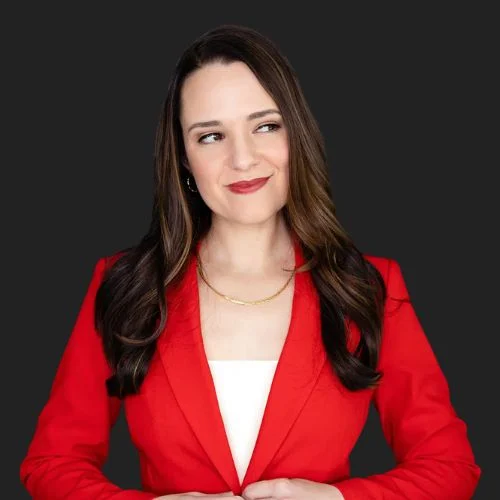
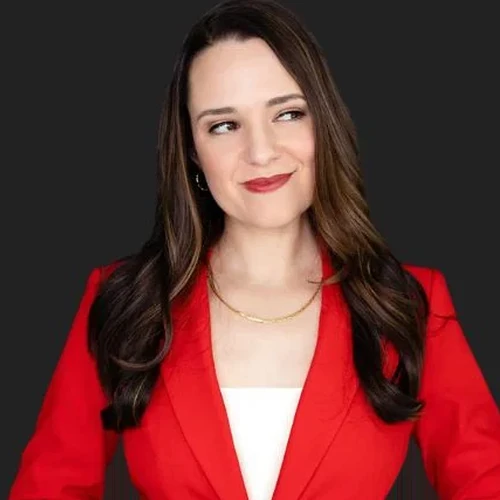
facilitators: every circle portrait matches Christina's framing
Face width and eye line were all over the place: faces ran 122 to 195 px
wide and eye lines sat anywhere from y=100 to y=173, so the circles read
as a collection rather than a set. Each portrait is now scaled and
positioned so the face measures 154 px with the eyes at (258, 121), which
is Christina's. Backgrounds were already the same #222222.

Touches the Love Immersion October page and both in-person pages, which
share these files.

diff --git a/love-immersion/october-2026/index.html b/love-immersion/october-2026/index.html
@@ -478,43 +478,43 @@
           <p class="text-white/55 text-sm leading-relaxed">Guiding the Evolution of the Relationship Industry</p>
         </div>
         <div class="flex flex-col items-center text-center w-56">
-          <img src="/images/facilitators/annie-lalla.webp" alt="Annie Lalla" loading="lazy" class="w-36 h-36 rounded-full object-cover mb-5" style="box-shadow: 0 10px 30px rgba(0,0,0,0.45);">
+          <img src="/images/facilitators/annie-lalla.webp?v=4" alt="Annie Lalla" loading="lazy" class="w-36 h-36 rounded-full object-cover mb-5" style="box-shadow: 0 10px 30px rgba(0,0,0,0.45);">
           <h3 class="font-heading text-xl text-white mb-1.5">Annie Lalla</h3>
           <p class="text-gold text-sm font-medium mb-1.5 leading-snug">Cartographer of Love</p>
           <p class="text-white/55 text-sm leading-relaxed">Expert in Relationship Dynamics, Evolutionary Psychology, and Intimacy</p>
         </div>
         <div class="flex flex-col items-center text-center w-56">
-          <img src="/images/facilitators/ariana-hall.webp" alt="Ariana Hall" loading="lazy" class="w-36 h-36 rounded-full object-cover mb-5" style="box-shadow: 0 10px 30px rgba(0,0,0,0.45);">
+          <img src="/images/facilitators/ariana-hall.webp?v=4" alt="Ariana Hall" loading="lazy" class="w-36 h-36 rounded-full object-cover mb-5" style="box-shadow: 0 10px 30px rgba(0,0,0,0.45);">
           <h3 class="font-heading text-xl text-white mb-1.5">Ariana Hall</h3>
           <p class="text-gold text-sm font-medium mb-1.5 leading-snug">Master Coach for High Achievers</p>
           <p class="text-white/55 text-sm leading-relaxed">Deep, Focused Transformation and Radical Clarity</p>
         </div>
         <div class="flex flex-col items-center text-center w-56">
-          <img src="/images/facilitators/yossef-sagi.webp?v=2" alt="Yossef Sagi" loading="lazy" class="w-36 h-36 rounded-full object-cover mb-5" style="box-shadow: 0 10px 30px rgba(0,0,0,0.45);">
+          <img src="/images/facilitators/yossef-sagi.webp?v=4" alt="Yossef Sagi" loading="lazy" class="w-36 h-36 rounded-full object-cover mb-5" style="box-shadow: 0 10px 30px rgba(0,0,0,0.45);">
           <h3 class="font-heading text-xl text-white mb-1.5">Yossef Sagi</h3>
           <p class="text-gold text-sm font-medium mb-1.5 leading-snug">Master Coach and Intimacy Guide</p>
           <p class="text-white/55 text-sm leading-relaxed">Deep Connection, Trust, and Embodied Partnership</p>
         </div>
         <div class="flex flex-col items-center text-center w-56">
-          <img src="/images/facilitators/jordan-bowditch.webp" alt="Jordan Bowditch" loading="lazy" class="w-36 h-36 rounded-full object-cover mb-5" style="box-shadow: 0 10px 30px rgba(0,0,0,0.45);">
+          <img src="/images/facilitators/jordan-bowditch.webp?v=4" alt="Jordan Bowditch" loading="lazy" class="w-36 h-36 rounded-full object-cover mb-5" style="box-shadow: 0 10px 30px rgba(0,0,0,0.45);">
           <h3 class="font-heading text-xl text-white mb-1.5">Jordan Bowditch</h3>
           <p class="text-gold text-sm font-medium mb-1.5 leading-snug">Confidence and Community Architect</p>
           <p class="text-white/55 text-sm leading-relaxed">Transformation Through Radical Play, Polarity, and Truth</p>
         </div>
         <div class="flex flex-col items-center text-center w-56">
-          <img src="/images/facilitators/rachel-cuthbert-v3.webp" alt="Rachel Cuthbert" loading="lazy" class="w-36 h-36 rounded-full object-cover mb-5" style="box-shadow: 0 10px 30px rgba(0,0,0,0.45);">
+          <img src="/images/facilitators/rachel-cuthbert-v3.webp?v=4" alt="Rachel Cuthbert" loading="lazy" class="w-36 h-36 rounded-full object-cover mb-5" style="box-shadow: 0 10px 30px rgba(0,0,0,0.45);">
           <h3 class="font-heading text-xl text-white mb-1.5">Rachel Cuthbert</h3>
           <p class="text-gold text-sm font-medium mb-1.5 leading-snug">Trauma-Informed Coach and Somatic Practitioner</p>
           <p class="text-white/55 text-sm leading-relaxed">Nervous System Healing, Inner Child Integration, and Attachment Transformation</p>
         </div>
         <div class="flex flex-col items-center text-center w-56">
-          <img src="/images/facilitators/yarixa-ferrao.webp" alt="Yarixa Ferrao" loading="lazy" class="w-36 h-36 rounded-full object-cover mb-5" style="box-shadow: 0 10px 30px rgba(0,0,0,0.45);">
+          <img src="/images/facilitators/yarixa-ferrao.webp?v=4" alt="Yarixa Ferrao" loading="lazy" class="w-36 h-36 rounded-full object-cover mb-5" style="box-shadow: 0 10px 30px rgba(0,0,0,0.45);">
           <h3 class="font-heading text-xl text-white mb-1.5">Yarixa Ferrao</h3>
           <p class="text-gold text-sm font-medium mb-1.5 leading-snug">Leadership Architect and Embodiment Coach</p>
           <p class="text-white/55 text-sm leading-relaxed">Emotional Intelligence, Regulation, and Presence When It Matters Most</p>
         </div>
         <div class="flex flex-col items-center text-center w-56">
-          <img src="/images/facilitators/scott-solo-wild.webp" alt="Scott Solo Wild" loading="lazy" class="w-36 h-36 rounded-full object-cover mb-5" style="box-shadow: 0 10px 30px rgba(0,0,0,0.45);">
+          <img src="/images/facilitators/scott-solo-wild.webp?v=4" alt="Scott Solo Wild" loading="lazy" class="w-36 h-36 rounded-full object-cover mb-5" style="box-shadow: 0 10px 30px rgba(0,0,0,0.45);">
           <h3 class="font-heading text-xl text-white mb-1.5">Scott Solo Wild</h3>
           <p class="text-gold text-sm font-medium mb-1.5 leading-snug">Turning Point Conversation Specialist</p>
           <p class="text-white/55 text-sm leading-relaxed">Preparing You for the One Conversation That Changes Your Relationship</p>

diff --git a/inperson/index.html b/inperson/index.html
@@ -617,13 +617,13 @@
           <p class="text-white/55 text-sm leading-relaxed">A decade curating the world&rsquo;s leading teachers of love, intimacy, and conscious relationship</p>
         </div>
         <div class="flex flex-col items-center text-center w-56">
-          <img src="/images/facilitators/annie-lalla.webp" alt="Annie Lalla" loading="lazy" class="w-36 h-36 rounded-full object-cover mb-5" style="box-shadow: 0 10px 30px rgba(0,0,0,0.45);">
+          <img src="/images/facilitators/annie-lalla.webp?v=4" alt="Annie Lalla" loading="lazy" class="w-36 h-36 rounded-full object-cover mb-5" style="box-shadow: 0 10px 30px rgba(0,0,0,0.45);">
           <h3 class="font-heading text-xl text-white mb-1.5">Annie Lalla</h3>
           <p class="text-gold text-sm font-medium mb-1.5 leading-snug">Cartographer of Love</p>
           <p class="text-white/55 text-sm leading-relaxed">Helping singles find their life partner and couples resolve the conflicts that erode connection</p>
         </div>
         <div class="flex flex-col items-center text-center w-56">
-          <img src="/images/facilitators/jordan-bowditch.webp" alt="Jordan Bowditch" loading="lazy" class="w-36 h-36 rounded-full object-cover mb-5" style="box-shadow: 0 10px 30px rgba(0,0,0,0.45);">
+          <img src="/images/facilitators/jordan-bowditch.webp?v=4" alt="Jordan Bowditch" loading="lazy" class="w-36 h-36 rounded-full object-cover mb-5" style="box-shadow: 0 10px 30px rgba(0,0,0,0.45);">
           <h3 class="font-heading text-xl text-white mb-1.5">Jordan Bowditch</h3>
           <p class="text-gold text-sm font-medium mb-1.5 leading-snug">Men&rsquo;s Performance and Intimacy Coach</p>
           <p class="text-white/55 text-sm leading-relaxed">Coaching men and couples on confidence, polarity, and conscious connection</p>
@@ -631,19 +631,19 @@
       </div>
       <div class="flex flex-wrap justify-center gap-x-8 gap-y-12 max-w-5xl mx-auto mt-12">
         <div class="flex flex-col items-center text-center w-56">
-          <img src="/images/facilitators/ariana-hall.webp" alt="Ariana Hall" loading="lazy" class="w-36 h-36 rounded-full object-cover mb-5" style="box-shadow: 0 10px 30px rgba(0,0,0,0.45);">
+          <img src="/images/facilitators/ariana-hall.webp?v=4" alt="Ariana Hall" loading="lazy" class="w-36 h-36 rounded-full object-cover mb-5" style="box-shadow: 0 10px 30px rgba(0,0,0,0.45);">
           <h3 class="font-heading text-xl text-white mb-1.5">Ariana Hall</h3>
           <p class="text-gold text-sm font-medium mb-1.5 leading-snug">Master Coach for High Achievers</p>
           <p class="text-white/55 text-sm leading-relaxed">Deep, focused transformation and radical clarity</p>
         </div>
         <div class="flex flex-col items-center text-center w-56">
-          <img src="/images/facilitators/bootsy-greenwood.webp" alt="Bootsy Greenwood" loading="lazy" class="w-36 h-36 rounded-full object-cover mb-5" style="box-shadow: 0 10px 30px rgba(0,0,0,0.45);">
+          <img src="/images/facilitators/bootsy-greenwood.webp?v=4" alt="Bootsy Greenwood" loading="lazy" class="w-36 h-36 rounded-full object-cover mb-5" style="box-shadow: 0 10px 30px rgba(0,0,0,0.45);">
           <h3 class="font-heading text-xl text-white mb-1.5">Bootsy Greenwood</h3>
           <p class="text-gold text-sm font-medium mb-1.5 leading-snug">Reality Transurfing Teacher</p>
           <p class="text-white/55 text-sm leading-relaxed">Helping you stop chasing what you want and start choosing it</p>
         </div>
         <div class="flex flex-col items-center text-center w-56">
-          <img src="/images/facilitators/rachel-cuthbert-2026.jpg" alt="Rachel Cuthbert" loading="lazy" class="w-36 h-36 rounded-full object-cover mb-5" style="box-shadow: 0 10px 30px rgba(0,0,0,0.45);">
+          <img src="/images/facilitators/rachel-cuthbert-2026.jpg?v=4" alt="Rachel Cuthbert" loading="lazy" class="w-36 h-36 rounded-full object-cover mb-5" style="box-shadow: 0 10px 30px rgba(0,0,0,0.45);">
           <h3 class="font-heading text-xl text-white mb-1.5">Rachel Cuthbert</h3>
           <p class="text-gold text-sm font-medium mb-1.5 leading-snug">Trauma Resolution Specialist</p>
           <p class="text-white/55 text-sm leading-relaxed">NeuroRewired Specialist, joining us for the weekend</p>

diff --git a/inperson-aug-2026/index.html b/inperson-aug-2026/index.html
@@ -616,13 +616,13 @@
           <p class="text-white/55 text-sm leading-relaxed">A decade curating the world&rsquo;s leading teachers of love, intimacy, and conscious relationship</p>
         </div>
         <div class="flex flex-col items-center text-center w-56">
-          <img src="/images/facilitators/annie-lalla.webp" alt="Annie Lalla" loading="lazy" class="w-36 h-36 rounded-full object-cover mb-5" style="box-shadow: 0 10px 30px rgba(0,0,0,0.45);">
+          <img src="/images/facilitators/annie-lalla.webp?v=4" alt="Annie Lalla" loading="lazy" class="w-36 h-36 rounded-full object-cover mb-5" style="box-shadow: 0 10px 30px rgba(0,0,0,0.45);">
           <h3 class="font-heading text-xl text-white mb-1.5">Annie Lalla</h3>
           <p class="text-gold text-sm font-medium mb-1.5 leading-snug">Cartographer of Love</p>
           <p class="text-white/55 text-sm leading-relaxed">Helping singles find their life partner and couples resolve the conflicts that erode connection</p>
         </div>
         <div class="flex flex-col items-center text-center w-56">
-          <img src="/images/facilitators/jordan-bowditch.webp" alt="Jordan Bowditch" loading="lazy" class="w-36 h-36 rounded-full object-cover mb-5" style="box-shadow: 0 10px 30px rgba(0,0,0,0.45);">
+          <img src="/images/facilitators/jordan-bowditch.webp?v=4" alt="Jordan Bowditch" loading="lazy" class="w-36 h-36 rounded-full object-cover mb-5" style="box-shadow: 0 10px 30px rgba(0,0,0,0.45);">
           <h3 class="font-heading text-xl text-white mb-1.5">Jordan Bowditch</h3>
           <p class="text-gold text-sm font-medium mb-1.5 leading-snug">Men&rsquo;s Performance and Intimacy Coach</p>
           <p class="text-white/55 text-sm leading-relaxed">Coaching men and couples on confidence, polarity, and conscious connection</p>
@@ -630,19 +630,19 @@
       </div>
       <div class="flex flex-wrap justify-center gap-x-8 gap-y-12 max-w-5xl mx-auto mt-12">
         <div class="flex flex-col items-center text-center w-56">
-          <img src="/images/facilitators/melissa-d-2026.jpg" alt="Melissa D." loading="lazy" class="w-36 h-36 rounded-full object-cover mb-5" style="box-shadow: 0 10px 30px rgba(0,0,0,0.45);">
+          <img src="/images/facilitators/melissa-d-2026.jpg?v=4" alt="Melissa D." loading="lazy" class="w-36 h-36 rounded-full object-cover mb-5" style="box-shadow: 0 10px 30px rgba(0,0,0,0.45);">
           <h3 class="font-heading text-xl text-white mb-1.5">Melissa D.</h3>
           <p class="text-gold text-sm font-medium mb-1.5 leading-snug">Somatic and Sexological Bodyworker</p>
           <p class="text-white/55 text-sm leading-relaxed">Founder of BodyJoy Intimacy School &amp; Sensuous Society</p>
         </div>
         <div class="flex flex-col items-center text-center w-56">
-          <img src="/images/facilitators/rachel-cuthbert-2026.jpg" alt="Rachel Cuthbert" loading="lazy" class="w-36 h-36 rounded-full object-cover mb-5" style="box-shadow: 0 10px 30px rgba(0,0,0,0.45);">
+          <img src="/images/facilitators/rachel-cuthbert-2026.jpg?v=4" alt="Rachel Cuthbert" loading="lazy" class="w-36 h-36 rounded-full object-cover mb-5" style="box-shadow: 0 10px 30px rgba(0,0,0,0.45);">
           <h3 class="font-heading text-xl text-white mb-1.5">Rachel Cuthbert</h3>
           <p class="text-gold text-sm font-medium mb-1.5 leading-snug">Trauma Resolution Specialist</p>
           <p class="text-white/55 text-sm leading-relaxed">NeuroRewired Specialist</p>
         </div>
         <div class="flex flex-col items-center text-center w-56">
-          <img src="/images/facilitators/scott-wild-v2.jpg" alt="Scott Solo Wild" loading="lazy" class="w-36 h-36 rounded-full object-cover mb-5" style="box-shadow: 0 10px 30px rgba(0,0,0,0.45);">
+          <img src="/images/facilitators/scott-wild-v2.jpg?v=4" alt="Scott Solo Wild" loading="lazy" class="w-36 h-36 rounded-full object-cover mb-5" style="box-shadow: 0 10px 30px rgba(0,0,0,0.45);">
           <h3 class="font-heading text-xl text-white mb-1.5">Scott Solo Wild</h3>
           <p class="text-gold text-sm font-medium mb-1.5 leading-snug">Turning Point Conversation Specialist</p>
           <p class="text-white/55 text-sm leading-relaxed">Preparing you for the one conversation that changes your relationship</p>
